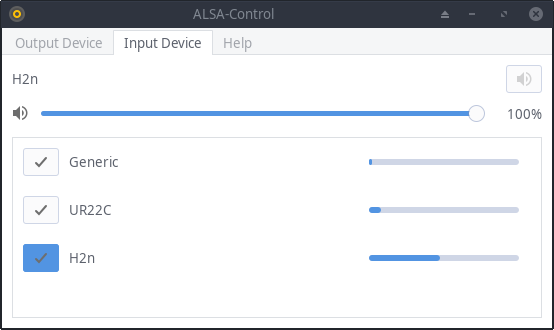
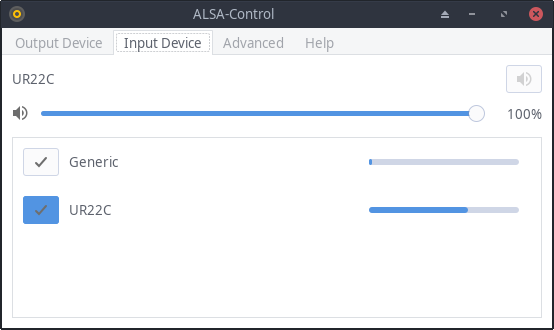
add some help text to advanced, update screenshots

diff --git a/README.md b/README.md
@@ -21,6 +21,9 @@ alsacontrol-gtk
 <p align="center">
     <img src="data/input-devices.png"/>
 </p>
+<p align="center">
+    <img src="data/advanced.png"/>
+</p>
 
 If it didn't already start due to a system restart, you can start the daemon with:
 
